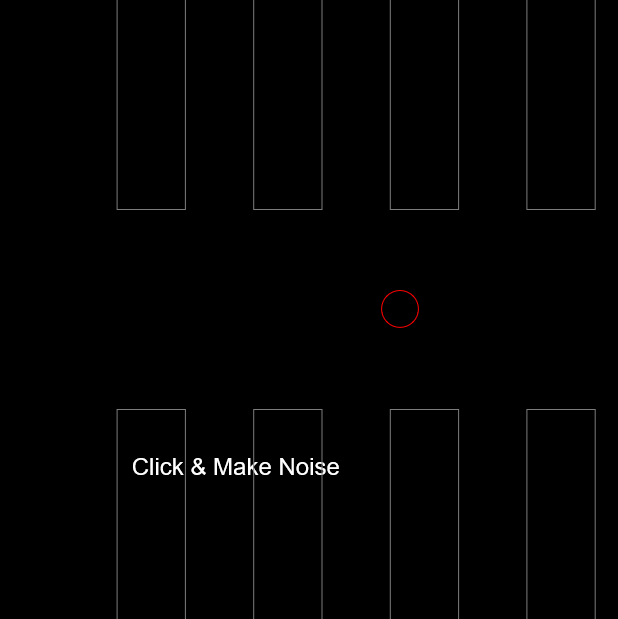
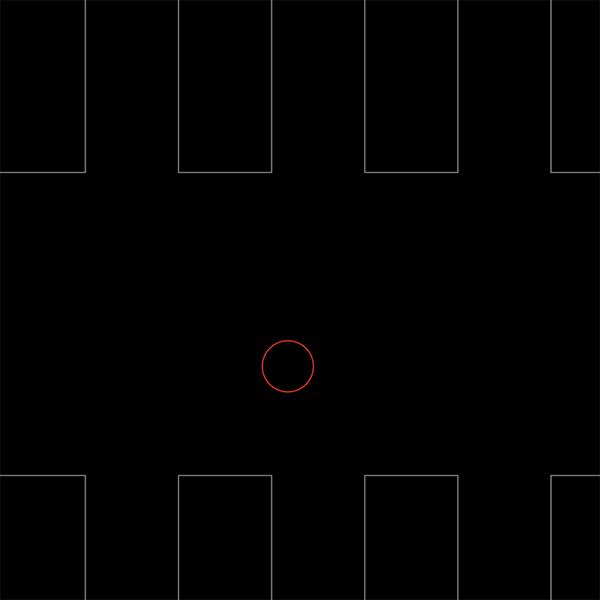
improvements for re-evaluation

diff --git a/addons/p5.dom.min.js b/addons/p5.dom.min.js
@@ -1,0 +1,1 @@
+/*! p5.js v0.7.2 September 02, 2018 */ !function(a,b){"function"==typeof define&&define.amd?define("p5.dom",["p5"],function(a){b(a)}):b("object"==typeof exports?require("../p5"):a.p5)}(this,function(a){function b(b){var c=document;return"string"==typeof b&&"#"===b[0]?(b=b.slice(1),c=document.getElementById(b)||document):b instanceof a.Element?c=b.elt:b instanceof HTMLElement&&(c=b),c}function c(b,c,d){(c._userNode?c._userNode:document.body).appendChild(b);var e=d?new a.MediaElement(b,c):new a.Element(b,c);return c._elements.push(e),e}function d(a,b,d,e){var f=document.createElement(b);"string"==typeof(d=d||"")&&(d=[d]);for(var g=0;g<d.length;g++){var h=document.createElement("source");h.src=d[g],f.appendChild(h)}if(void 0!==e){var i=function(){e(),f.removeEventListener("canplaythrough",i)};f.addEventListener("canplaythrough",i)}var j=c(f,a,!0);return j.loadedmetadata=!1,f.addEventListener("loadedmetadata",function(){j.width=f.videoWidth,j.height=f.videoHeight,0===j.elt.width&&(j.elt.width=f.videoWidth),0===j.elt.height&&(j.elt.height=f.videoHeight),j.presetPlaybackRate&&(j.elt.playbackRate=j.presetPlaybackRate,delete j.presetPlaybackRate),j.loadedmetadata=!0}),j}a.prototype.select=function(c,d){a._validateParameters("select",arguments);var e=null,f=b(d);return"."===c[0]?(c=c.slice(1),e=f.getElementsByClassName(c),e=e.length?e[0]:null):"#"===c[0]?(c=c.slice(1),e=f.getElementById(c)):(e=f.getElementsByTagName(c),e=e.length?e[0]:null),e?this._wrapElement(e):null},a.prototype.selectAll=function(c,d){a._validateParameters("selectAll",arguments);var e,f=[],g=b(d);if("."===c[0]?(c=c.slice(1),e=g.getElementsByClassName(c)):e=g.getElementsByTagName(c),e)for(var h=0;h<e.length;h++){var i=this._wrapElement(e[h]);f.push(i)}return f},a.prototype._wrapElement=function(b){var c=Array.prototype.slice.call(b.children);if("INPUT"===b.tagName&&"checkbox"===b.type){var d=new a.Element(b,this);return d.checked=function(){return 0===arguments.length?this.elt.checked:(arguments[0]?this.elt.checked=!0:this.elt.checked=!1,this)},d}return"VIDEO"===b.tagName||"AUDIO"===b.tagName?new a.MediaElement(b,this):"SELECT"===b.tagName?this.createSelect(new a.Element(b,this)):c.length>0&&c.every(function(a){return"INPUT"===a.tagName||"LABEL"===a.tagName})?this.createRadio(new a.Element(b,this)):new a.Element(b,this)},a.prototype.removeElements=function(b){a._validateParameters("removeElements",arguments);for(var c=0;c<this._elements.length;c++)this._elements[c].elt instanceof HTMLCanvasElement||this._elements[c].remove()},["div","p","span"].forEach(function(b){var d="create"+b.charAt(0).toUpperCase()+b.slice(1);a.prototype[d]=function(a){var d=document.createElement(b);return d.innerHTML=void 0===a?"":a,c(d,this)}}),a.prototype.createImg=function(){a._validateParameters("createImg",arguments);var b,d=document.createElement("img"),e=arguments,f=function(){b.width=d.offsetWidth||d.width,b.height=d.offsetHeight||d.height,e.length>1&&"function"==typeof e[1]?(b.fn=e[1],b.fn()):e.length>1&&"function"==typeof e[2]&&(b.fn=e[2],b.fn())};return d.src=e[0],e.length>1&&"string"==typeof e[1]&&(d.alt=e[1]),d.onload=function(){f()},b=c(d,this)},a.prototype.createA=function(b,d,e){a._validateParameters("createA",arguments);var f=document.createElement("a");return f.href=b,f.innerHTML=d,e&&(f.target=e),c(f,this)},a.prototype.createSlider=function(b,d,e,f){a._validateParameters("createSlider",arguments);var g=document.createElement("input");return g.type="range",g.min=b,g.max=d,0===f?g.step=1e-18:f&&(g.step=f),"number"==typeof e&&(g.value=e),c(g,this)},a.prototype.createButton=function(b,d){a._validateParameters("createButton",arguments);var e=document.createElement("button");return e.innerHTML=b,d&&(e.value=d),c(e,this)},a.prototype.createCheckbox=function(){a._validateParameters("createCheckbox",arguments);var b=document.createElement("div"),d=document.createElement("input");d.type="checkbox",b.appendChild(d);var e=c(b,this);if(e.checked=function(){var a=e.elt.getElementsByTagName("input")[0];if(a){if(0===arguments.length)return a.checked;arguments[0]?a.checked=!0:a.checked=!1}return e},this.value=function(a){return e.value=a,this},arguments[0]){var f=Math.random().toString(36).slice(2),g=document.createElement("label");d.setAttribute("id",f),g.htmlFor=f,e.value(arguments[0]),g.appendChild(document.createTextNode(arguments[0])),b.appendChild(g)}return arguments[1]&&(d.checked=!0),e},a.prototype.createSelect=function(){a._validateParameters("createSelect",arguments);var b,d,e=arguments[0];return"object"==typeof e&&"SELECT"===e.elt.nodeName?(d=e,b=this.elt=e.elt):(b=document.createElement("select"),e&&"boolean"==typeof e&&b.setAttribute("multiple","true"),d=c(b,this)),d.option=function(a,c){for(var d,e=0;e<this.elt.length;e++)if(this.elt[e].innerHTML===a){d=e;break}if(void 0!==d)!1===c?this.elt.remove(d):this.elt[d].innerHTML===this.elt[d].value?this.elt[d].innerHTML=this.elt[d].value=c:this.elt[d].value=c;else{var f=document.createElement("option");f.innerHTML=a,arguments.length>1?f.value=c:f.value=a,b.appendChild(f)}},d.selected=function(a){var b,c=[];if(arguments.length>0){for(b=0;b<this.elt.length;b++)a.toString()===this.elt[b].value&&(this.elt.selectedIndex=b);return this}if(this.elt.getAttribute("multiple")){for(b=0;b<this.elt.selectedOptions.length;b++)c.push(this.elt.selectedOptions[b].value);return c}return this.elt.value},d},a.prototype.createRadio=function(b){a._validateParameters("createRadio",arguments);var d=document.querySelectorAll("input[type=radio]"),e=0;if(d.length>1){var f=d.length,g=d[0].name,h=d[1].name;e=1;for(var i=1;i<f;i++)h=d[i].name,g!==h&&e++,g=h}else 1===d.length&&(e=1);var j,k;"object"==typeof b?(k=b,j=this.elt=b.elt):(j=document.createElement("div"),k=c(j,this)),k._getInputChildrenArray=function(){return Array.prototype.slice.call(this.elt.children).filter(function(a){return"INPUT"===a.tagName})};var l=-1;return k.option=function(a,b){var c=document.createElement("input");if(c.type="radio",c.innerHTML=a,c.value=b||a,c.setAttribute("name","defaultradio"+e),j.appendChild(c),a){l++;var d=document.createElement("label");c.setAttribute("id","defaultradio"+e+"-"+l),d.htmlFor="defaultradio"+e+"-"+l,d.appendChild(document.createTextNode(a)),j.appendChild(d)}return c},k.selected=function(a){var b,c=k._getInputChildrenArray();if(a){for(b=0;b<c.length;b++)c[b].value===a&&(c[b].checked=!0);return this}for(b=0;b<c.length;b++)if(!0===c[b].checked)return c[b].value},k.value=function(a){var b,c=k._getInputChildrenArray();if(a){for(b=0;b<c.length;b++)c[b].value===a&&(c[b].checked=!0);return this}for(b=0;b<c.length;b++)if(!0===c[b].checked)return c[b].value;return""},k},a.prototype.createColorPicker=function(b){a._validateParameters("createColorPicker",arguments);var d,e=document.createElement("input");return e.type="color",b?b instanceof a.Color?e.value=b.toString("#rrggbb"):(a.prototype._colorMode="rgb",a.prototype._colorMaxes={rgb:[255,255,255,255],hsb:[360,100,100,1],hsl:[360,100,100,1]},e.value=a.prototype.color(b).toString("#rrggbb")):e.value="#000000",d=c(e,this),d.color=function(){return b.mode&&(a.prototype._colorMode=b.mode),b.maxes&&(a.prototype._colorMaxes=b.maxes),a.prototype.color(this.elt.value)},d},a.prototype.createInput=function(b,d){a._validateParameters("createInput",arguments);var e=document.createElement("input");return e.type=d||"text",b&&(e.value=b),c(e,this)},a.prototype.createFileInput=function(b,d){function e(c){function d(c){var d=new a.File(c);return function(a){d.data=a.target.result,b(d)}}for(var e=c.target.files,f=0;f<e.length;f++){var g=e[f],h=new FileReader;h.onload=d(g),g.type.indexOf("text")>-1?h.readAsText(g):h.readAsDataURL(g)}}if(a._validateParameters("createFileInput",arguments),window.File&&window.FileReader&&window.FileList&&window.Blob){var f=document.createElement("input");return f.type="file",d&&(f.multiple="multiple"),f.addEventListener("change",e,!1),c(f,this)}console.log("The File APIs are not fully supported in this browser. Cannot create element.")},a.prototype.createVideo=function(b,c){return a._validateParameters("createVideo",arguments),d(this,"video",b,c)},a.prototype.createAudio=function(b,c){return a._validateParameters("createAudio",arguments),d(this,"audio",b,c)},a.prototype.VIDEO="video",a.prototype.AUDIO="audio",void 0===navigator.mediaDevices&&(navigator.mediaDevices={}),void 0===navigator.mediaDevices.getUserMedia&&(navigator.mediaDevices.getUserMedia=function(a){var b=navigator.webkitGetUserMedia||navigator.mozGetUserMedia;return b?new Promise(function(c,d){b.call(navigator,a,c,d)}):Promise.reject(new Error("getUserMedia is not implemented in this browser"))}),a.prototype.createCapture=function(){a._validateParameters("createCapture",arguments);for(var b,d,e=!0,f=!0,g=0;g<arguments.length;g++)arguments[g]===a.prototype.VIDEO?f=!1:arguments[g]===a.prototype.AUDIO?e=!1:"object"==typeof arguments[g]?b=arguments[g]:"function"==typeof arguments[g]&&(d=arguments[g]);if(!navigator.mediaDevices||!navigator.mediaDevices.getUserMedia)throw"getUserMedia not supported in this browser";var h=document.createElement("video");h.setAttribute("playsinline",""),b||(b={video:e,audio:f}),navigator.mediaDevices.getUserMedia(b).then(function(a){try{"srcObject"in h?h.srcObject=a:h.src=window.URL.createObjectURL(a)}catch(b){h.src=a}d&&d(a)},function(a){console.log(a)});var i=c(h,this,!0);return i.loadedmetadata=!1,h.addEventListener("loadedmetadata",function(){h.play(),h.width?(i.width=h.videoWidth=h.width,i.height=h.videoHeight=h.height):(i.width=i.elt.width=h.videoWidth,i.height=i.elt.height=h.videoHeight),i.loadedmetadata=!0}),i},a.prototype.createElement=function(b,d){a._validateParameters("createElement",arguments);var e=document.createElement(b);return void 0!==d&&(e.innerHTML=d),c(e,this)},a.Element.prototype.addClass=function(a){return this.elt.className?this.elt.className=this.elt.className+" "+a:this.elt.className=a,this},a.Element.prototype.removeClass=function(a){var b=new RegExp("(?:^|\\s)"+a+"(?!\\S)");return this.elt.className=this.elt.className.replace(b,""),this.elt.className=this.elt.className.replace(/^\s+|\s+$/g,""),this},a.Element.prototype.child=function(b){return void 0===b?this.elt.childNodes:("string"==typeof b?("#"===b[0]&&(b=b.substring(1)),b=document.getElementById(b)):b instanceof a.Element&&(b=b.elt),this.elt.appendChild(b),this)},a.Element.prototype.center=function(a){var b=this.elt.style.display,c="none"===this.elt.style.display,d="none"===this.parent().style.display,e={x:this.elt.offsetLeft,y:this.elt.offsetTop};c&&this.show(),this.elt.style.display="block",this.position(0,0),d&&(this.parent().style.display="block");var f=Math.abs(this.parent().offsetWidth-this.elt.offsetWidth),g=Math.abs(this.parent().offsetHeight-this.elt.offsetHeight),h=e.y,i=e.x;return"both"===a||void 0===a?this.position(f/2,g/2):"horizontal"===a?this.position(f/2,h):"vertical"===a&&this.position(i,g/2),this.style("display",b),c&&this.hide(),d&&(this.parent().style.display="none"),this},a.Element.prototype.html=function(){return 0===arguments.length?this.elt.innerHTML:arguments[1]?(this.elt.innerHTML+=arguments[0],this):(this.elt.innerHTML=arguments[0],this)},a.Element.prototype.position=function(){return 0===arguments.length?{x:this.elt.offsetLeft,y:this.elt.offsetTop}:(this.elt.style.position="absolute",this.elt.style.left=arguments[0]+"px",this.elt.style.top=arguments[1]+"px",this.x=arguments[0],this.y=arguments[1],this)},a.Element.prototype._translate=function(){this.elt.style.position="absolute";var a="";return this.elt.style.transform&&(a=this.elt.style.transform.replace(/translate3d\(.*\)/g,""),a=a.replace(/translate[X-Z]?\(.*\)/g,"")),2===arguments.length?this.elt.style.transform="translate("+arguments[0]+"px, "+arguments[1]+"px)":arguments.length>2&&(this.elt.style.transform="translate3d("+arguments[0]+"px,"+arguments[1]+"px,"+arguments[2]+"px)",3===arguments.length?this.elt.parentElement.style.perspective="1000px":this.elt.parentElement.style.perspective=arguments[3]+"px"),this.elt.style.transform+=a,this},a.Element.prototype._rotate=function(){var a="";return this.elt.style.transform&&(a=this.elt.style.transform.replace(/rotate3d\(.*\)/g,""),a=a.replace(/rotate[X-Z]?\(.*\)/g,"")),1===arguments.length?this.elt.style.transform="rotate("+arguments[0]+"deg)":2===arguments.length?this.elt.style.transform="rotate("+arguments[0]+"deg, "+arguments[1]+"deg)":3===arguments.length&&(this.elt.style.transform="rotateX("+arguments[0]+"deg)",this.elt.style.transform+="rotateY("+arguments[1]+"deg)",this.elt.style.transform+="rotateZ("+arguments[2]+"deg)"),this.elt.style.transform+=a,this},a.Element.prototype.style=function(b,c){var d=this;if(c instanceof a.Color&&(c="rgba("+c.levels[0]+","+c.levels[1]+","+c.levels[2]+","+c.levels[3]/255+")"),void 0===c){if(-1===b.indexOf(":"))return window.getComputedStyle(d.elt).getPropertyValue(b);for(var e=b.split(";"),f=0;f<e.length;f++){var g=e[f].split(":");g[0]&&g[1]&&(this.elt.style[g[0].trim()]=g[1].trim())}}else if("rotate"===b||"translate"===b||"position"===b){var h=Array.prototype.shift.apply(arguments),i=this[h]||this["_"+h];i.apply(this,arguments)}else if(this.elt.style[b]=c,"width"===b||"height"===b||"left"===b||"top"===b){var j=c.replace(/\D+/g,"");this[b]=parseInt(j,10)}return this},a.Element.prototype.attribute=function(a,b){if(null==this.elt.firstChild||"checkbox"!==this.elt.firstChild.type&&"radio"!==this.elt.firstChild.type)return void 0===b?this.elt.getAttribute(a):(this.elt.setAttribute(a,b),this);if(void 0===b)return this.elt.firstChild.getAttribute(a);for(var c=0;c<this.elt.childNodes.length;c++)this.elt.childNodes[c].setAttribute(a,b)},a.Element.prototype.removeAttribute=function(a){if(null!=this.elt.firstChild&&("checkbox"===this.elt.firstChild.type||"radio"===this.elt.firstChild.type))for(var b=0;b<this.elt.childNodes.length;b++)this.elt.childNodes[b].removeAttribute(a);return this.elt.removeAttribute(a),this},a.Element.prototype.value=function(){return arguments.length>0?(this.elt.value=arguments[0],this):"range"===this.elt.type?parseFloat(this.elt.value):this.elt.value},a.Element.prototype.show=function(){return this.elt.style.display="block",this},a.Element.prototype.hide=function(){return this.elt.style.display="none",this},a.Element.prototype.size=function(b,c){if(0===arguments.length)return{width:this.elt.offsetWidth,height:this.elt.offsetHeight};var d=b,e=c,f=a.prototype.AUTO;if(d!==f||e!==f){if(d===f?d=c*this.width/this.height:e===f&&(e=b*this.height/this.width),this.elt instanceof HTMLCanvasElement){var g,h={},i=this.elt.getContext("2d");for(g in i)h[g]=i[g];this.elt.setAttribute("width",d*this._pInst._pixelDensity),this.elt.setAttribute("height",e*this._pInst._pixelDensity),this.elt.setAttribute("style","width:"+d+"px; height:"+e+"px"),this._pInst.scale(this._pInst._pixelDensity,this._pInst._pixelDensity);for(g in h)this.elt.getContext("2d")[g]=h[g]}else this.elt.style.width=d+"px",this.elt.style.height=e+"px",this.elt.width=d,this.elt.height=e,this.width=d,this.height=e;this.width=this.elt.offsetWidth,this.height=this.elt.offsetHeight,this._pInst&&this._pInst._curElement&&this._pInst._curElement.elt===this.elt&&(this._pInst._setProperty("width",this.elt.offsetWidth),this._pInst._setProperty("height",this.elt.offsetHeight))}return this},a.Element.prototype.remove=function(){for(var a in this._events)this.elt.removeEventListener(a,this._events[a]);this.elt.parentNode&&this.elt.parentNode.removeChild(this.elt)},a.MediaElement=function(b,c){a.Element.call(this,b,c);var d=this;this.elt.crossOrigin="anonymous",this._prevTime=0,this._cueIDCounter=0,this._cues=[],this._pixelDensity=1,this._modified=!1,this._pixelsDirty=!0,this._pixelsTime=-1,Object.defineProperty(d,"src",{get:function(){var a=d.elt.children[0].src,b=d.elt.src===window.location.href?"":d.elt.src;return a===window.location.href?b:a},set:function(a){for(var c=0;c<d.elt.children.length;c++)d.elt.removeChild(d.elt.children[c]);var e=document.createElement("source");e.src=a,b.appendChild(e),d.elt.src=a,d.modified=!0}}),d._onended=function(){},d.elt.onended=function(){d._onended(d)}},a.MediaElement.prototype=Object.create(a.Element.prototype),a.MediaElement.prototype.play=function(){this.elt.currentTime===this.elt.duration&&(this.elt.currentTime=0);var a;return this.elt.readyState>1?a=this.elt.play():(this.elt.load(),a=this.elt.play()),a&&a.catch&&a.catch(function(a){console.log("WARN: Element play method raised an error asynchronously",a)}),this},a.MediaElement.prototype.stop=function(){return this.elt.pause(),this.elt.currentTime=0,this},a.MediaElement.prototype.pause=function(){return this.elt.pause(),this},a.MediaElement.prototype.loop=function(){return this.elt.setAttribute("loop",!0),this.play(),this},a.MediaElement.prototype.noLoop=function(){return this.elt.setAttribute("loop",!1),this},a.MediaElement.prototype.autoplay=function(a){return this.elt.setAttribute("autoplay",a),this},a.MediaElement.prototype.volume=function(a){if(void 0===a)return this.elt.volume;this.elt.volume=a},a.MediaElement.prototype.speed=function(a){if(void 0===a)return this.presetPlaybackRate||this.elt.playbackRate;this.loadedmetadata?this.elt.playbackRate=a:this.presetPlaybackRate=a},a.MediaElement.prototype.time=function(a){return void 0===a?this.elt.currentTime:(this.elt.currentTime=a,this)},a.MediaElement.prototype.duration=function(){return this.elt.duration},a.MediaElement.prototype.pixels=[],a.MediaElement.prototype._ensureCanvas=function(){this.canvas||this.loadPixels()},a.MediaElement.prototype.loadPixels=function(){if(this.canvas||(this.canvas=document.createElement("canvas"),this.drawingContext=this.canvas.getContext("2d")),this.loadedmetadata){this.canvas.width!==this.elt.width&&(this.canvas.width=this.elt.width,this.canvas.height=this.elt.height,this.width=this.canvas.width,this.height=this.canvas.height,this._pixelsDirty=!0);var b=this.elt.currentTime;(this._pixelsDirty||this._pixelsTime!==b)&&(this._pixelsTime=b,this._pixelsDirty=!0,this.drawingContext.drawImage(this.elt,0,0,this.canvas.width,this.canvas.height),a.Renderer2D.prototype.loadPixels.call(this))}return this.setModified(!0),this},a.MediaElement.prototype.updatePixels=function(b,c,d,e){return this.loadedmetadata&&(this._ensureCanvas(),a.Renderer2D.prototype.updatePixels.call(this,b,c,d,e)),this.setModified(!0),this},a.MediaElement.prototype.get=function(b,c,d,e){if(this.loadedmetadata){var f=this.elt.currentTime;return this._pixelsTime!==f?this.loadPixels():this._ensureCanvas(),a.Renderer2D.prototype.get.call(this,b,c,d,e)}return void 0===b?new a.Image(1,1):d>1?new a.Image(b,c,d,e):[0,0,0,255]},a.MediaElement.prototype.set=function(b,c,d){this.loadedmetadata&&(this._ensureCanvas(),a.Renderer2D.prototype.set.call(this,b,c,d),this.setModified(!0))},a.MediaElement.prototype.copy=function(){this._ensureCanvas(),a.Renderer2D.prototype.copy.apply(this,arguments)},a.MediaElement.prototype.mask=function(){this.loadPixels(),this.setModified(!0),a.Image.prototype.mask.apply(this,arguments)},a.MediaElement.prototype.isModified=function(){return this._modified},a.MediaElement.prototype.setModified=function(a){this._modified=a},a.MediaElement.prototype.onended=function(a){return this._onended=a,this},a.MediaElement.prototype.connect=function(b){var c,d;if("function"==typeof a.prototype.getAudioContext)c=a.prototype.getAudioContext(),d=a.soundOut.input;else try{c=b.context,d=c.destination}catch(a){throw"connect() is meant to be used with Web Audio API or p5.sound.js"}this.audioSourceNode||(this.audioSourceNode=c.createMediaElementSource(this.elt),this.audioSourceNode.connect(d)),b?b.input?this.audioSourceNode.connect(b.input):this.audioSourceNode.connect(b):this.audioSourceNode.connect(d)},a.MediaElement.prototype.disconnect=function(){if(!this.audioSourceNode)throw"nothing to disconnect";this.audioSourceNode.disconnect()},a.MediaElement.prototype.showControls=function(){this.elt.style["text-align"]="inherit",this.elt.controls=!0},a.MediaElement.prototype.hideControls=function(){this.elt.controls=!1};var e=function(a,b,c,d){this.callback=a,this.time=b,this.id=c,this.val=d};a.MediaElement.prototype.addCue=function(a,b,c){var d=this._cueIDCounter++,f=new e(b,a,d,c);return this._cues.push(f),this.elt.ontimeupdate||(this.elt.ontimeupdate=this._onTimeUpdate.bind(this)),d},a.MediaElement.prototype.removeCue=function(a){for(var b=0;b<this._cues.length;b++)this._cues[b].id===a&&(console.log(a),this._cues.splice(b,1));0===this._cues.length&&(this.elt.ontimeupdate=null)},a.MediaElement.prototype.clearCues=function(){this._cues=[],this.elt.ontimeupdate=null},a.MediaElement.prototype._onTimeUpdate=function(){for(var a=this.time(),b=0;b<this._cues.length;b++){var c=this._cues[b].time,d=this._cues[b].val;this._prevTime<c&&c<=a&&this._cues[b].callback(d)}this._prevTime=a},a.File=function(a,b){this.file=a,this._pInst=b;var c=a.type.split("/");this.type=c[0],this.subtype=c[1],this.name=a.name,this.size=a.size,this.data=void 0}});

diff --git a/sketch.js b/sketch.js
@@ -1,34 +1,37 @@
+// global variables
 var mic;
 var volume;
 
 var playerX;
 var playerY;
+// array of colors for the player
+var coloreArray = ["red", "yellow", "green", "pink", "blue", "orange", "white"];
+// index for coloreArray
+var colore = 0;
 
+// game status global variables
 var startGame = false;
 var gameover = false;
 var youWin = false;
 
+// barriers global variables
 var allMyBarriers = [];
 var amountOfBarriers = 8;
 
-
-function preload() {
-  // put preload code here
-}
+function preload() {}
 
 function setup() {
-  // put setup code here
   createCanvas(windowWidth, windowHeight);
 
-  //imposta input sul microfono e comincia a rilevare input
+  //set microphone input
   mic = new p5.AudioIn();
   mic.start();
 
-  //player position X & Y
+  //player starting position X & Y
   playerY = windowHeight * 0.4;
   playerX = 25;
 
-  //barriers
+  //barriers creation
   for (var i = 0; i < amountOfBarriers; i++) {
     var tempx = windowWidth / 10 + i * windowWidth / 10;
     var tempy = 0;
@@ -36,28 +39,25 @@ function setup() {
     var tempBarrier = new CreateBarrier(tempx, tempy);
     allMyBarriers.push(tempBarrier);
   }
+  //info gameplay
+  text1 = createDiv("CLICK to start/pause <br> MAKE NOISE to play <br> Press SPACEBAR to change color");
+  text1.style("user-select: none; position: absolute; top: 85%; left: 10%; color: white; text-align: left; font-family: 'Source Code Pro'; font-size: 1vw");
+  text1.hide();
 }
 
 function draw() {
-
   volume = mic.getLevel();
-  clear();
 
   background(0);
 
-  //info gameplay
+  // instruction text visible / invisible
   if (startGame == false) {
-    push();
-    textSize(24);
-    noStroke();
-    fill(255);
-    text("Click & Make Noise", windowWidth / 9, windowHeight * 0.75);
-    pop();
+    text1.show();
+  }
+  if (startGame == true || gameover == true || youWin == true) {
+    text1.hide();
   }
 
-
-  var finishLine = new CreateFinishLine();
-  finishLine.display();
 
   //player
   player = new CreatePlayer(playerX, playerY, windowHeight / 18);
@@ -73,49 +73,52 @@ function draw() {
   //player: gravity & x movement
   if (startGame == true) {
     playerX += 1;
-
+    // gravity makes player fall
     playerY += 3;
+    // sound makes player rise
     playerY -= 150 * volume;
   }
 
+  //Screen Game Over
   if (gameover == true) {
     push();
     background(200, 0, 0);
     textSize(30);
     noStroke();
     fill(255);
+    textAlign(CENTER);
+    textFont('Source Code Pro');
     text("Game Over", windowWidth / 2, windowHeight / 2);
     pop();
+    noLoop();
   }
 
-  //finish
-  if (player.x >= finishLine.x) {
-    youWin = true;
-  }
-
-
+  //Finish line
   if (player.x >= windowWidth * 0.95) {
     youWin = true;
   }
 
-
+  //Screen You Win
   if (youWin == true) {
     push();
     background(0, 200, 0);
     textSize(30);
     noStroke();
     fill(255);
+    textAlign(CENTER);
+    textFont('Source Code Pro');
     text("You Win", windowWidth / 2, windowHeight / 2);
     pop();
   }
 }
 
+// player object
 function CreatePlayer(_x, _y, _r) {
   this.x = _x;
   this.y = _y;
   this.r = _r;
 
-  this.color = "red";
+  this.color = coloreArray[colore];
   this.strokeWeight = 1;
 
   this.display = function() {
@@ -125,11 +128,12 @@ function CreatePlayer(_x, _y, _r) {
   }
 }
 
+// barriers object
 function CreateBarrier(_x, _y) {
   this.x = _x;
-  this.y = windowHeight*0.7;
-  this.y1 = _y + 100;
-  this.y2 = _y - 100 - windowHeight;
+  this.y = windowHeight * 0.7;
+  this.y1 = _y + 125;
+  this.y2 = _y - 125 - windowHeight;
 
   this.color = 125;
 
@@ -147,32 +151,10 @@ function CreateBarrier(_x, _y) {
     pop();
   }
 
-//clean
-  this.collide2 = function() {
-    //if (this.x > player.x + player.width / 2 && this.x+this.width < player.x - player.width/2) {
-    //if(this.x < player.x + player.width/2  && this.x+this.width > player.x - player.width/2) {
-    if (player.x + player.r / 2 < this.x || player.x - player.r / 2 > this.x + this.width) {} else {
-      if (player.y + player.r / 2 < this.y || player.y - player.r / 2 > this.y + this.height) {} else {
-        console.log("gameover");
-        gameover = true;
-      }
-    }
-  }
-
-  this.collide3 = function() {
-    if ((player.x + player.r / 2 > this.x) && (player.x - player.r / 2 < this.x + this.width)) {
-      if ((player.y + player.r / 2 > this.y) && (player.y - player.r / 2 < this.y + this.height)) {
-        console.log("gameover");
-        gameover = true;
-      }
-    }
-  }
-
-//////////////////////////////////////////////////////////////////////////////////////////////////////////////////
+  // set collision between player and barriers
   this.collide = function() {
-    //if ((player.x + player.r / 2 > this.x) && (player.x - player.r / 2 < this.x + this.width) && (player.y + player.r / 2 > this.y) && (player.y - player.r / 2 < this.y + this.height)) {
-      if(player.x + player.r / 2 > this.x && player.x - player.r / 2 < this.x + this.width) {
-        if(player.y > windowHeight/2 + 100 || player.y < windowHeight/2 - 100) {
+    if (player.x + player.r / 2 > this.x && player.x - player.r / 2 < this.x + this.width) {
+      if (player.y > windowHeight / 2 + 125 || player.y < windowHeight / 2 - 125) {
         console.log("gameover");
         gameover = true;
       }
@@ -180,28 +162,36 @@ function CreateBarrier(_x, _y) {
   }
 }
 
-//clean
-function CreateFinishLine() {
-  this.display = function() {
-    push();
-    fill(255);
-    rect(15, windowHeight, windowWidth * 0.9, 0);
-    pop();
-  }
-}
-/////////////////////////////////////////////////////
+
 function mouseClicked() {
   if (gameover == false) {
+    // mouseclick play-pause the game if gameover is false
     if (startGame == false) {
       startGame = true;
     } else {
       startGame = false;
     }
   } else {
+    // refresh the page if gameover is true
     location = location;
   }
 
+  // refresh the page if the player has won
   if (youWin == true) {
     location = location;
   }
+}
+
+// keyboard input
+function keyPressed() {
+  if (keyCode === 32) {
+    // SPACEBAR generates a random number to change index in coloreArray and change player color
+    colore = round(random(0, 6));
+    return false;
+  }
+}
+
+//resize
+function windowResized() {
+  resizeCanvas(windowWidth, windowHeight);
 }

diff --git a/index.html b/index.html
@@ -3,7 +3,8 @@
   <head>
     <meta charset="utf-8">
     <meta name="viewport" width=device-width, initial-scale=1.0, maximum-scale=1.0, user-scalable=0>
-    <style> body {padding: 0; margin: 0;} </style>
+    <link href="https://fonts.googleapis.com/css?family=Source+Code+Pro:500&display=swap" rel="stylesheet">
+    <style> body {padding: 0; margin: 0; overflow: hidden;} </style>
     <script src="p5.min.js"></script>
     <script src="addons/p5.dom.min.js"></script>
     <script src="addons/p5.sound.min.js"></script>
